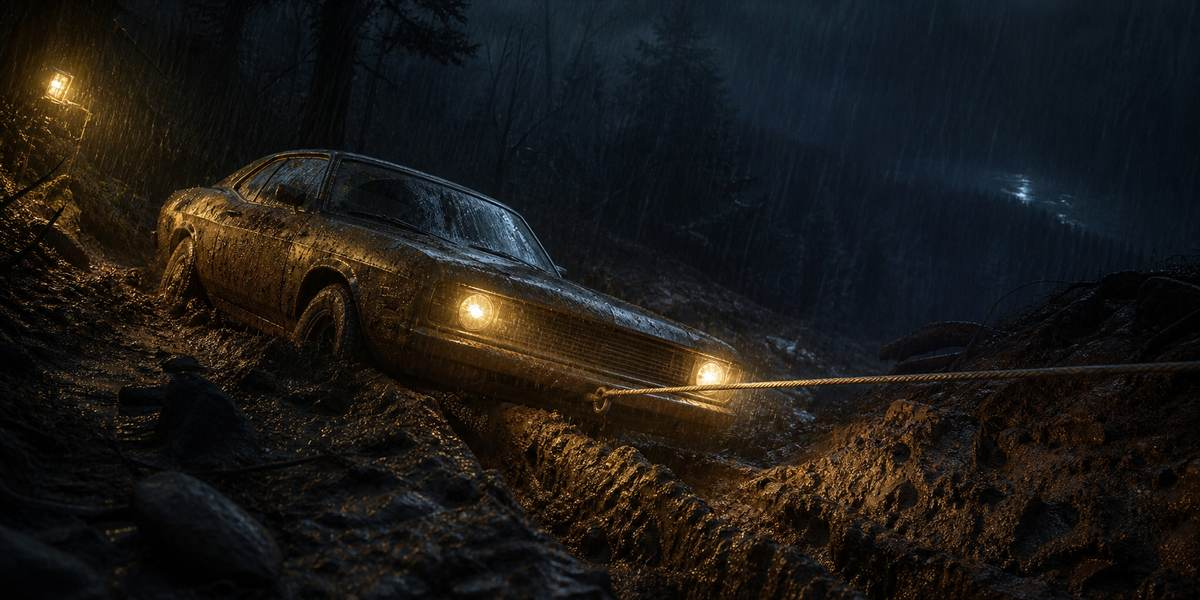
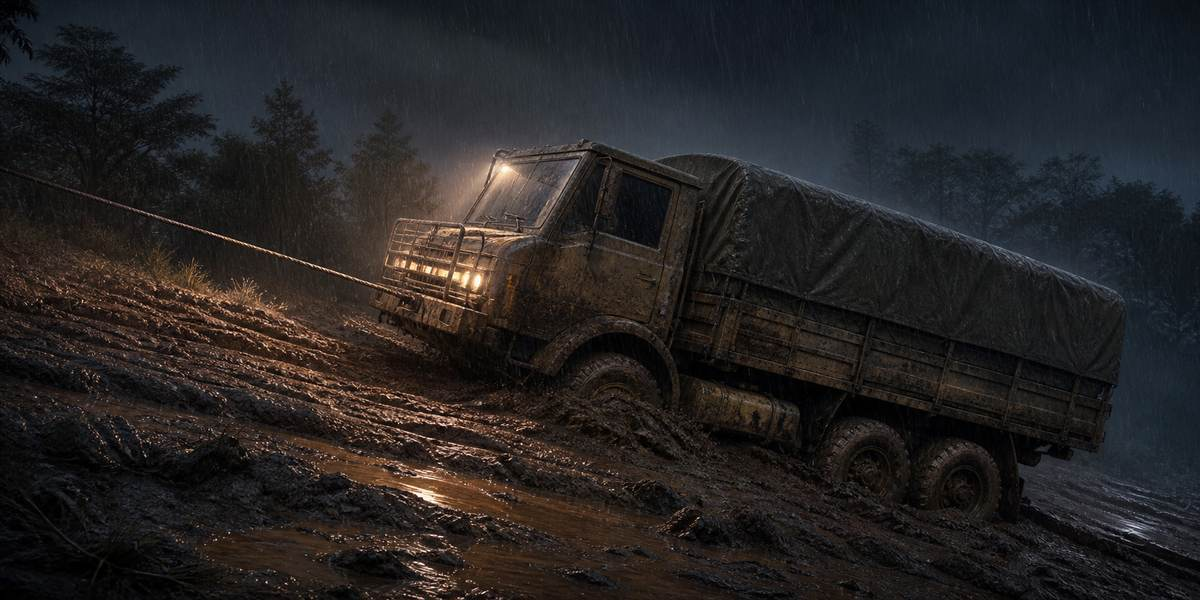
Фактура мира под панелями и полоса возвращения
Интерфейс перестал быть нейтральным. Под панелями лежит фактура истории: у
бокса крашеный металл в работе, у сети матовый лёд изнутри. Лежит под
градиентом, а не поверх содержимого — наложение сверху пришлось бы держать
отдельным слоем, и оно вуалью ложилось бы на текст.

Присланные фактуры оказались темнее, чем можно использовать: под панелью они
не проявлялись вовсе. Это моя вина, а не генератора — в задании было сказано
«сомневаешься, делай незаметно», и он сделал. Высветлил их тем же безголовым
браузером, которым проверяю рендеры: втрое по яркости и вполовину по
насыщенности.

Полоса возвращения встала над карточкой «Продолжить». Тот, кто зашёл во второй
раз, вступительного экрана не видит, и до сих пор его встречал голый
прямоугольник с текстом: возвращение в историю выглядело как возвращение в
таблицу. Теперь это угол бокса с отблеском переноски на мокром бетоне.

Вехи наконец с грузовиком — сверил по кадру, а не по имени файла. Лежат в
art/, механики под них по-прежнему нет.

diff --git a/styles.css b/styles.css
@@ -75,7 +75,14 @@ body {
 .app-shell > main { flex: 1; min-height: 0; display: flex; flex-direction: column; }
 
 .panel {
-  background: linear-gradient(150deg, rgba(16, 27, 37, .96), rgba(9, 18, 26, .96));
+  /* Фактура мира под панелью: у бокса крашеный металл в работе, у сети —
+     матовый лёд изнутри. Лежит под градиентом, а не поверх содержимого:
+     наложение сверху пришлось бы держать в отдельном слое, и оно вуалью
+     ложилось бы на текст. Прозрачность градиента подобрана так, чтобы фактуру
+     было видно на просвет и не видно под буквами. */
+  background:
+    linear-gradient(150deg, rgba(16, 27, 37, .93), rgba(9, 18, 26, .93)),
+    url("ice-panel.jpg") center / 380px repeat;
   border: 1px solid var(--line);
   border-radius: var(--radius);
   box-shadow: var(--shadow);
@@ -864,4 +871,20 @@ body:not(.lesson-open) .mode-switch { display: none; }
 .lesson-side .task-block { flex: 0 0 auto; }
 @media (max-width: 1240px) {
   .lesson-side { grid-column: 1 / -1; }
+}
+
+/* Фактура принадлежит истории. Файл подменяется, слой остаётся тем же. */
+body.theme-garage .panel {
+  background:
+    linear-gradient(150deg, rgba(26, 22, 16, .93), rgba(18, 14, 9, .93)),
+    url("garage-panel.jpg") center / 380px repeat;
+}
+
+/* Полоса возвращения над карточкой «Продолжить». Тот, кто зашёл во второй раз,
+   вступительного экрана не видит, и до сих пор его встречал голый
+   прямоугольник с текстом — возвращение в историю выглядело как возвращение в
+   таблицу. */
+.continue-strip {
+  display: block; width: 100%; height: 84px; object-fit: cover;
+  border-radius: 14px 14px 0 0; margin-bottom: -10px;
 }

diff --git a/src/content/themes.js b/src/content/themes.js
@@ -30,6 +30,7 @@ export const THEMES = [
     finaleText: 'Ты поставил свой замок, показал, что заводской пускает кого угодно, и доказал, что твой не пускает. Это и есть работа по безопасности — с той разницей, что за неё платят.',
     art: {
       finale: 'garage-finale.jpg',
+      strip: 'garage-strip.jpg',
       finaleAlt: 'Гружёный тягач вышел из грязи на рассвете',
       bootAlt: 'Приборная панель просыпается',
       boot: ['garage-boot-1.jpg', 'garage-boot-2.jpg', 'garage-boot-3.jpg', 'garage-boot-4.jpg'],
@@ -64,6 +65,7 @@ export const THEMES = [
     finaleText: 'Ты написал защиту, нашёл в чужой дыру и доказал, что у себя её нет. Это и есть работа тестировщика — с той разницей, что за неё платят.',
     art: {
       finale: 'finale.jpg',
+      strip: 'ice-strip.jpg',
       finaleAlt: 'Пролом в ледяной стене, за ним город из каркасов и света',
       bootAlt: 'Связь с сетью устанавливается',
       boot: ['ice-boot-1.jpg', 'ice-boot-2.jpg', 'ice-boot-3.jpg', 'ice-boot-4.jpg'],

diff --git a/src/ui/map.js b/src/ui/map.js
@@ -185,6 +185,12 @@ export function renderMap(root, { onOpen }) {
     root.append(welcome(upNext, onOpen));
   } else if (upNext) {
     const progress = lessonState(upNext);
+    if (activeTheme().art?.strip) {
+      root.append(el('img', {
+        class: 'continue-strip', src: activeTheme().art.strip, alt: '',
+        loading: 'lazy', decoding: 'async', width: 1200, height: 300,
+      }));
+    }
     root.append(el('button', {
       class: 'continue-card',
       onclick: () => onOpen(upNext),
